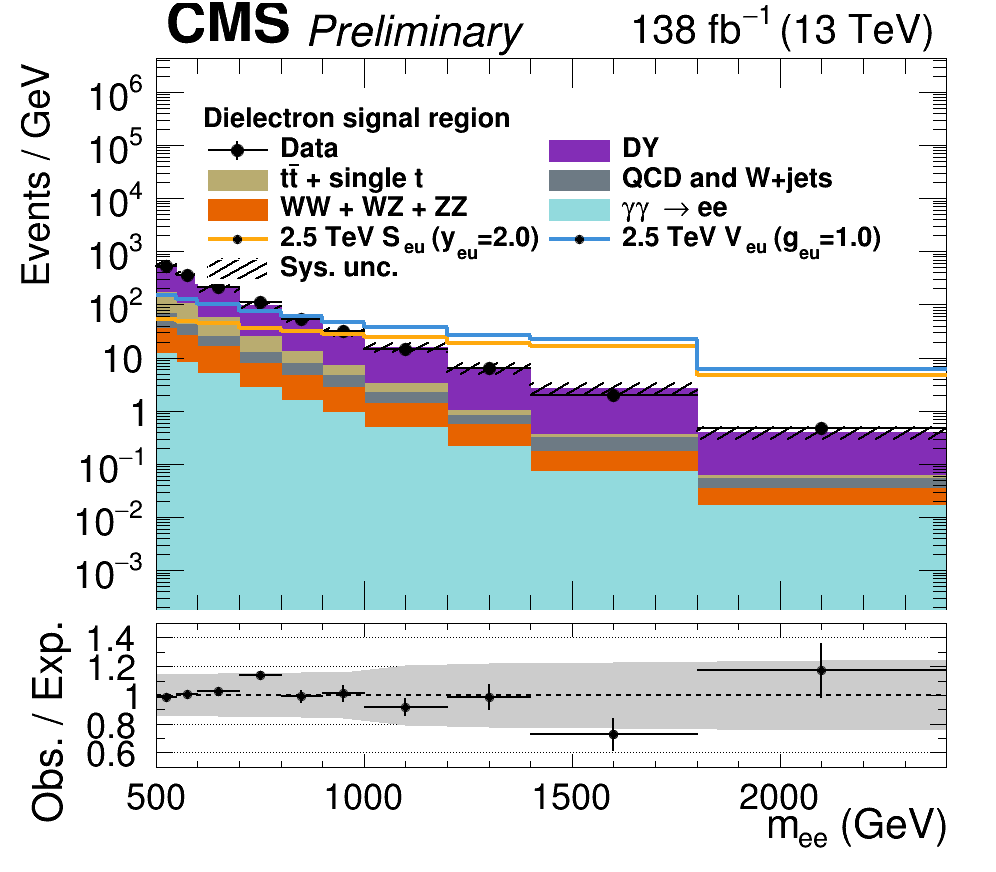
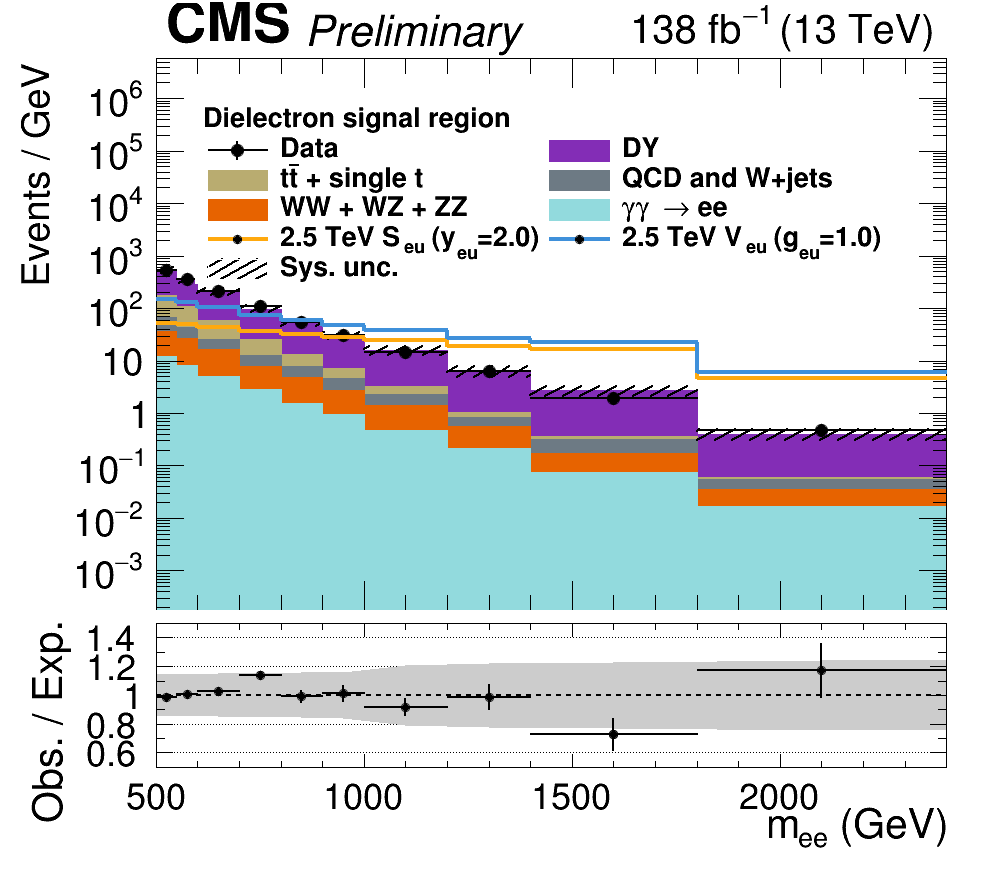
updating ymax for elel

diff --git a/plots/ElEl/draw_cmp_from_saved.C b/plots/ElEl/draw_cmp_from_saved.C
@@ -417,7 +417,7 @@ void draw_cmp_from_saved(){
 
 
     int year = -1;
-    float hmax = 1500;
+    float hmax = 2000;
     //if(year == 2016)
     //    hmax *= 0.625;
     //if(year == 2017)
@@ -451,7 +451,7 @@ void draw_cmp_from_saved(){
     logy = false;
     int n_cost_bins = 10;
     float cost_bin_size = 2./n_cost_bins;
-    hmax = 3500;
+    hmax = 3000;
 
     //if(year == 2016)
     //    hmax *= 0.625;
